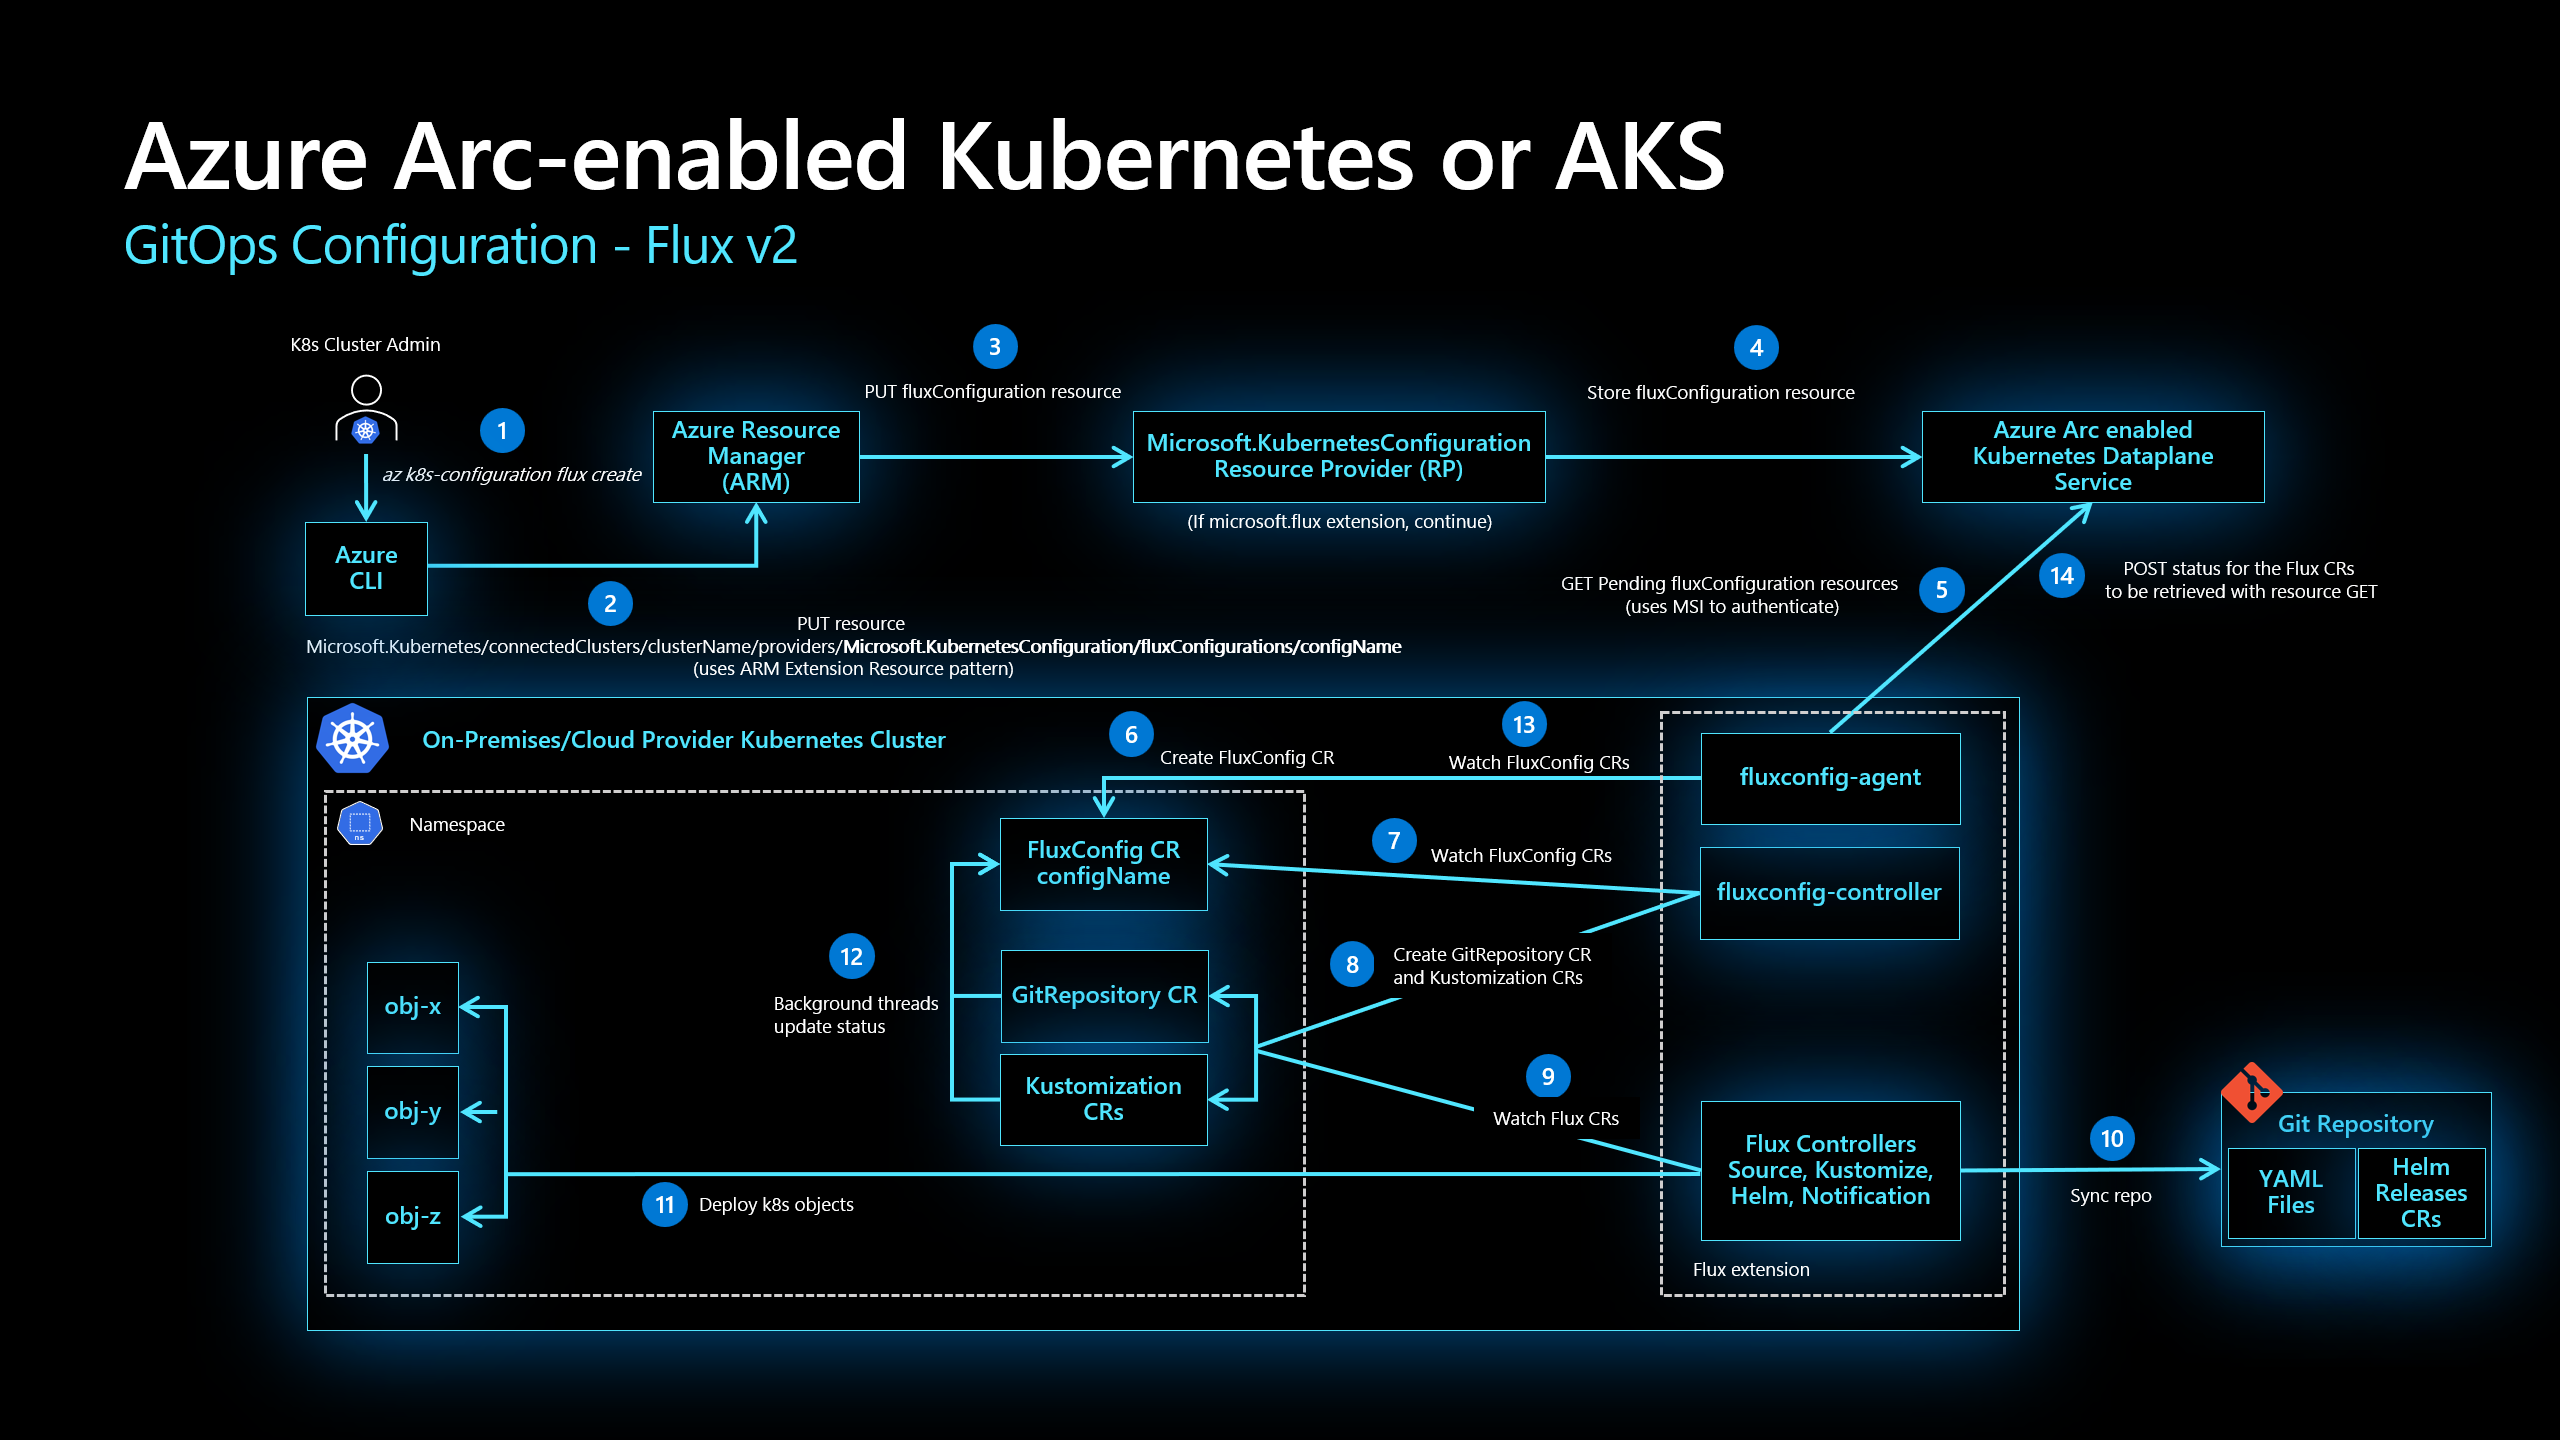
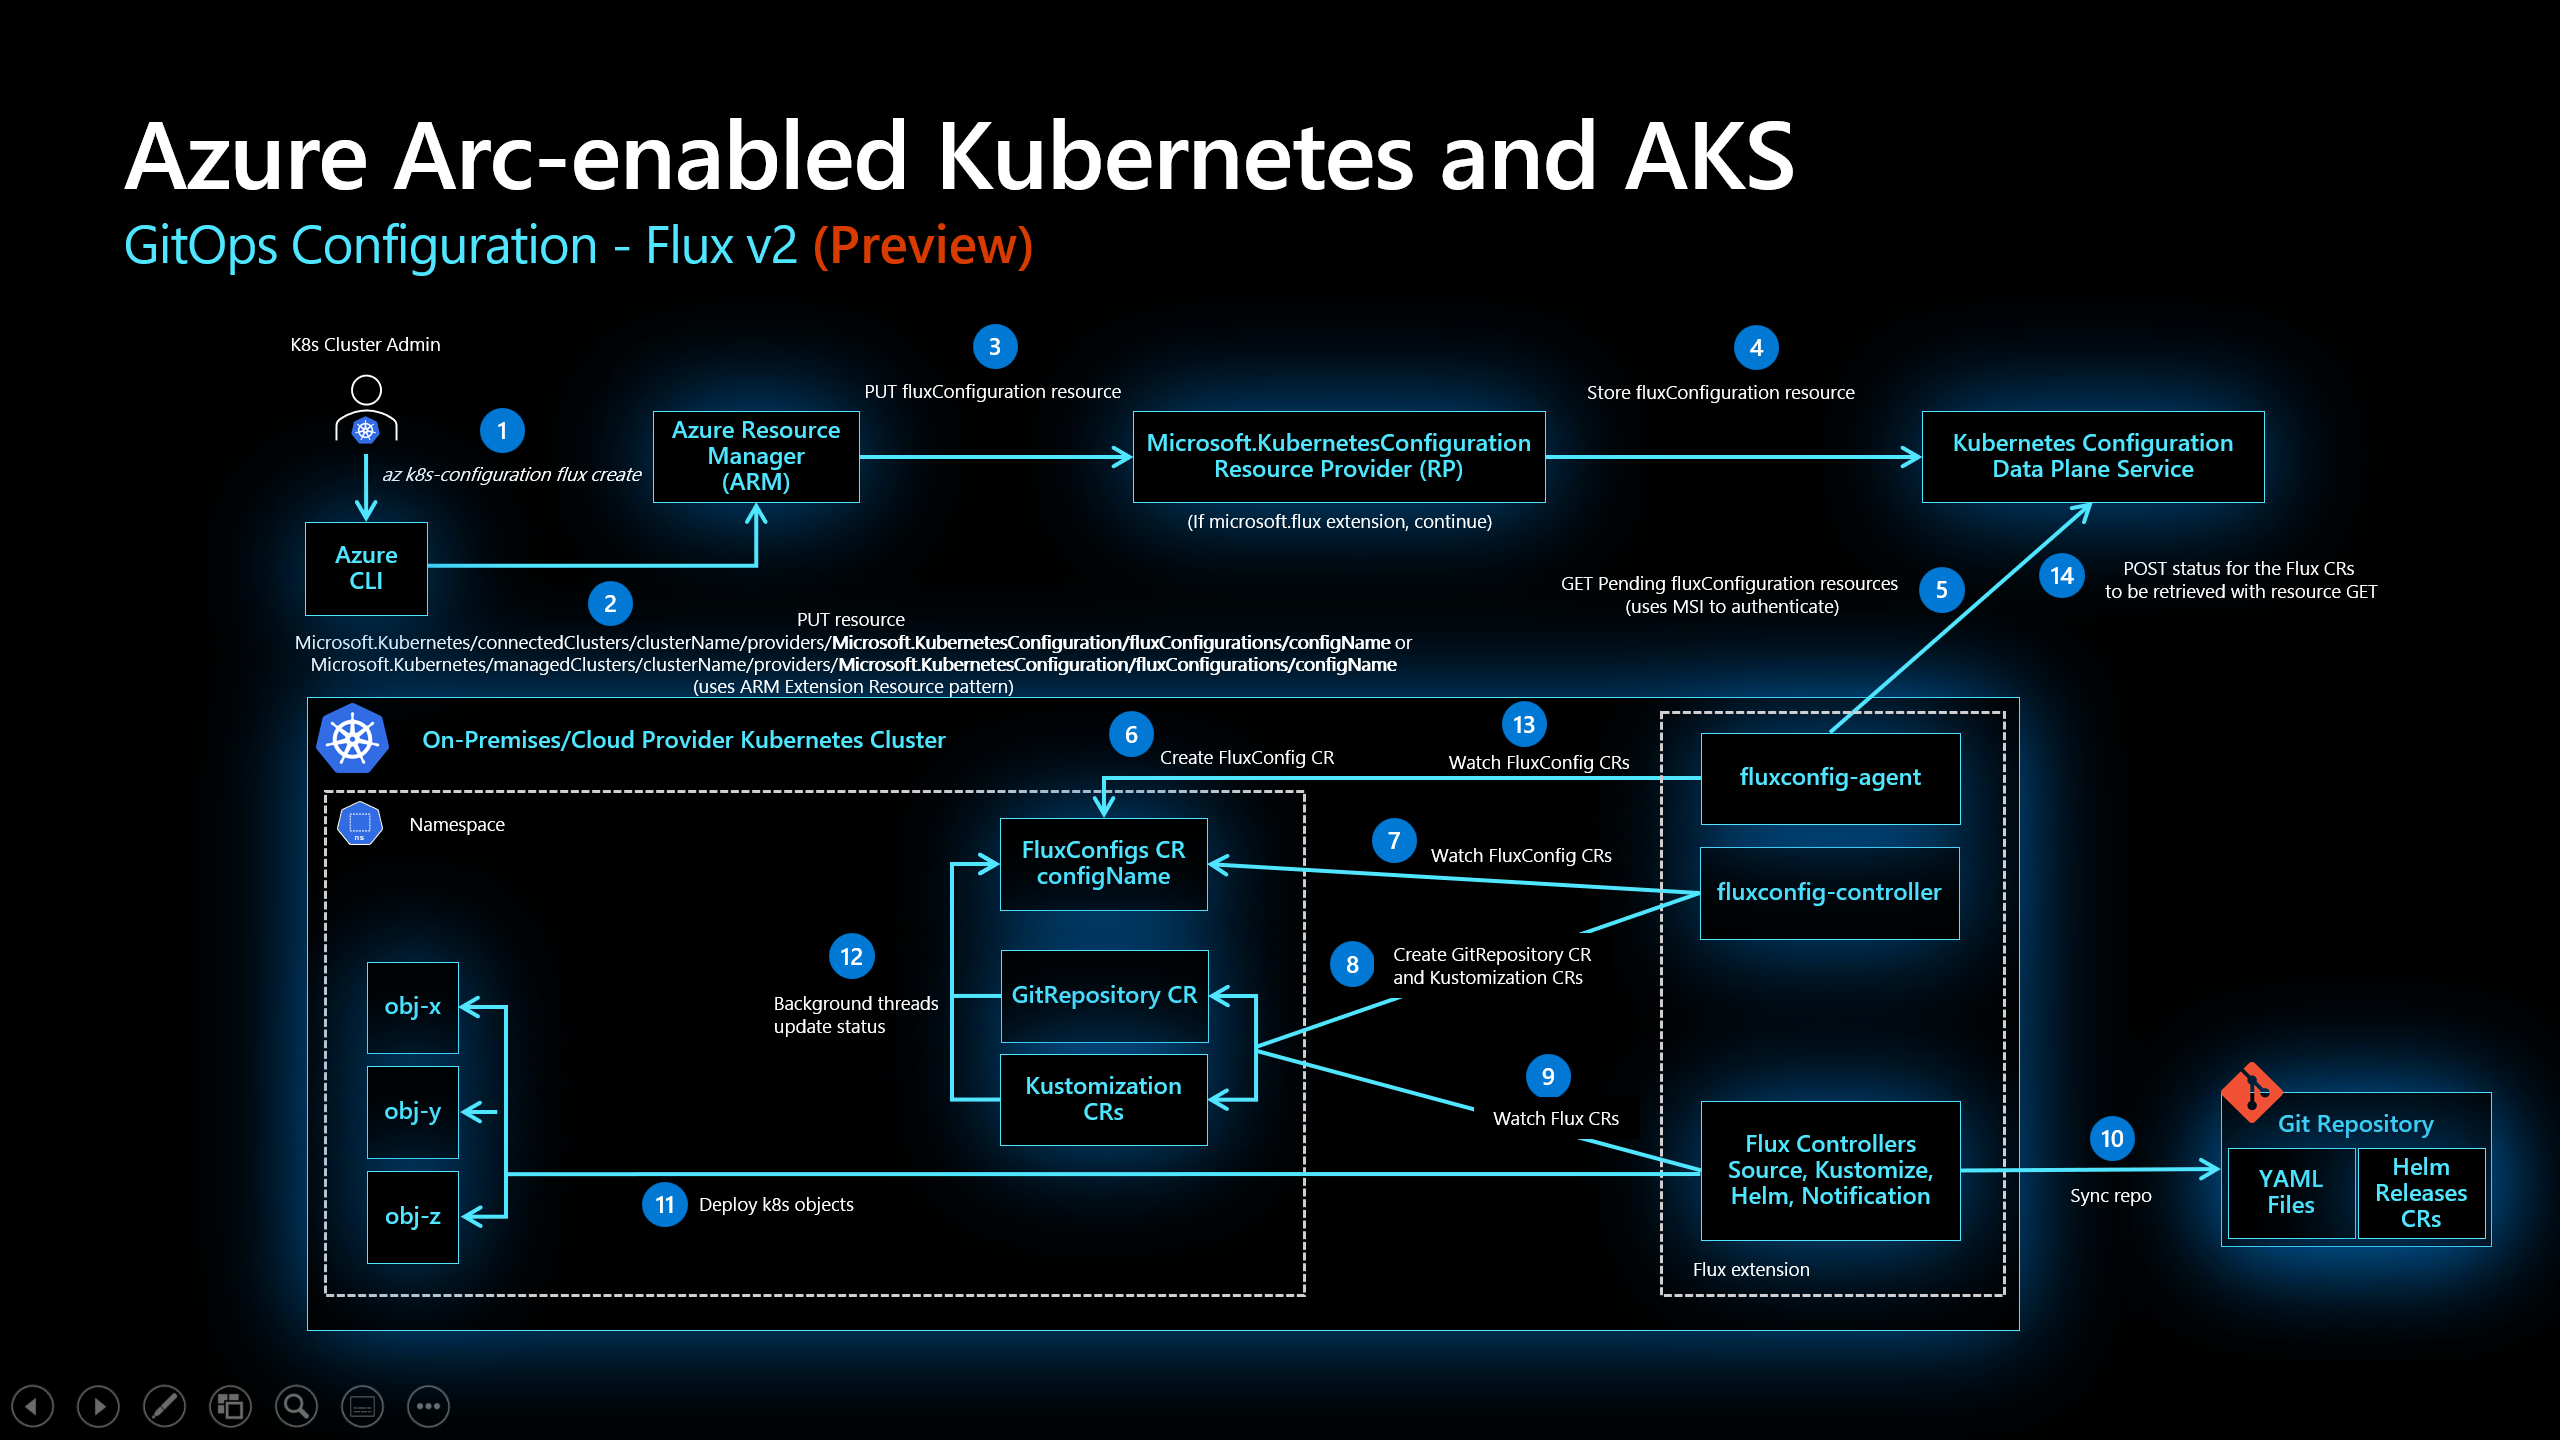
Updating images for flux2 conceptual

diff --git a/articles/azure-arc/kubernetes/conceptual-gitops-flux2.md b/articles/azure-arc/kubernetes/conceptual-gitops-flux2.md
@@ -26,9 +26,10 @@ Azure GitOps uses [Flux](https://fluxcd.io/docs/), a popular open-source tool se
 
 ## Flux Cluster Extension
 
-![flux extension install diagram](./media/gitops/flux2-extension-install.png)
+![flux extension install diagram](./media/gitops/flux2-extension-install-arc.png)
+![flux extension install diagram](./media/gitops/flux2-extension-install-aks.png)
 
-GitOps is enabled in an Azure Arc-enabled Kubernetes or Azure Kubernetes Service cluster as a `Microsoft.KubernetesConfiguration/extensions/microsoft.flux` [cluster extension](./conceptual-extensions.md) resource.  You can install the `microsoft.flux` extension manually using the portal or the Azure CLI (*az k8s-extension create --extensionType=microsoft.flux*) or have it installed automatically when you create the first `Microsoft.KubernetesConfiguration/fluxConfigurations` in the cluster. The `microsoft.flux` extension must be installed in the cluster before one or more `fluxConfigurations` can be created.
+GitOps is enabled in an Azure Arc-enabled Kubernetes or AKS cluster as a `Microsoft.KubernetesConfiguration/extensions/microsoft.flux` [cluster extension](./conceptual-extensions.md) resource.  You can install the `microsoft.flux` extension manually using the portal or the Azure CLI (*az k8s-extension create --extensionType=microsoft.flux*) or have it installed automatically when you create the first `Microsoft.KubernetesConfiguration/fluxConfigurations` in the cluster. The `microsoft.flux` extension must be installed in the cluster before one or more `fluxConfigurations` can be created.
 
 The `microsoft.flux` extension installs the [Flux controllers](https://fluxcd.io/docs/components/) (Source, Kustomize, Helm, Notification) and the FluxConfig CRD, fluxconfig-agent, and fluxconfig-controller. You can optionally install the Flux image-automation and image-reflector controllers, which provide functionality around updating and retrieving Docker images.
 
@@ -70,10 +71,10 @@ Each `fluxConfigurations` resource in Azure will be associated in a Kubernetes c
 
 > [!NOTE]
 > * `fluxconfig-agent` monitors for new or updated fluxConfiguration resources in Azure. Thus, agents require connectivity to Azure public cloud for the desired state to be applied to the cluster. If agents are unable to connect to Azure, there will be a delay in propagating the desired state to the cluster until the agents can connect.
-> * Sensitive customer inputs like private key, known hosts content, HTTPS username, and token/password are stored for less than 48 hours in the Azure Arc enabled Kubernetes service. If you update any of these values in Azure, assure that your clusters connect with Azure within 48 hours.
+> * Sensitive customer inputs like private key, known hosts content, HTTPS username, and token/password are stored for less than 48 hours in the Kubernetes Configuration service. If you update any of these values in Azure, assure that your clusters connect with Azure within 48 hours.
 
 ## Next steps
 
-Advance to the next tutorial to learn how to enable GitOps on your Azure Arc-enabled Kubernetes or Azure Kubernetes Service (AKS) clusters
+Advance to the next tutorial to learn how to enable GitOps on your Azure Arc-enabled Kubernetes or AKS clusters
 > [!div class="nextstepaction"]
 * [Enable GitOps with Flux](./tutorial-use-gitops-flux2.md)
